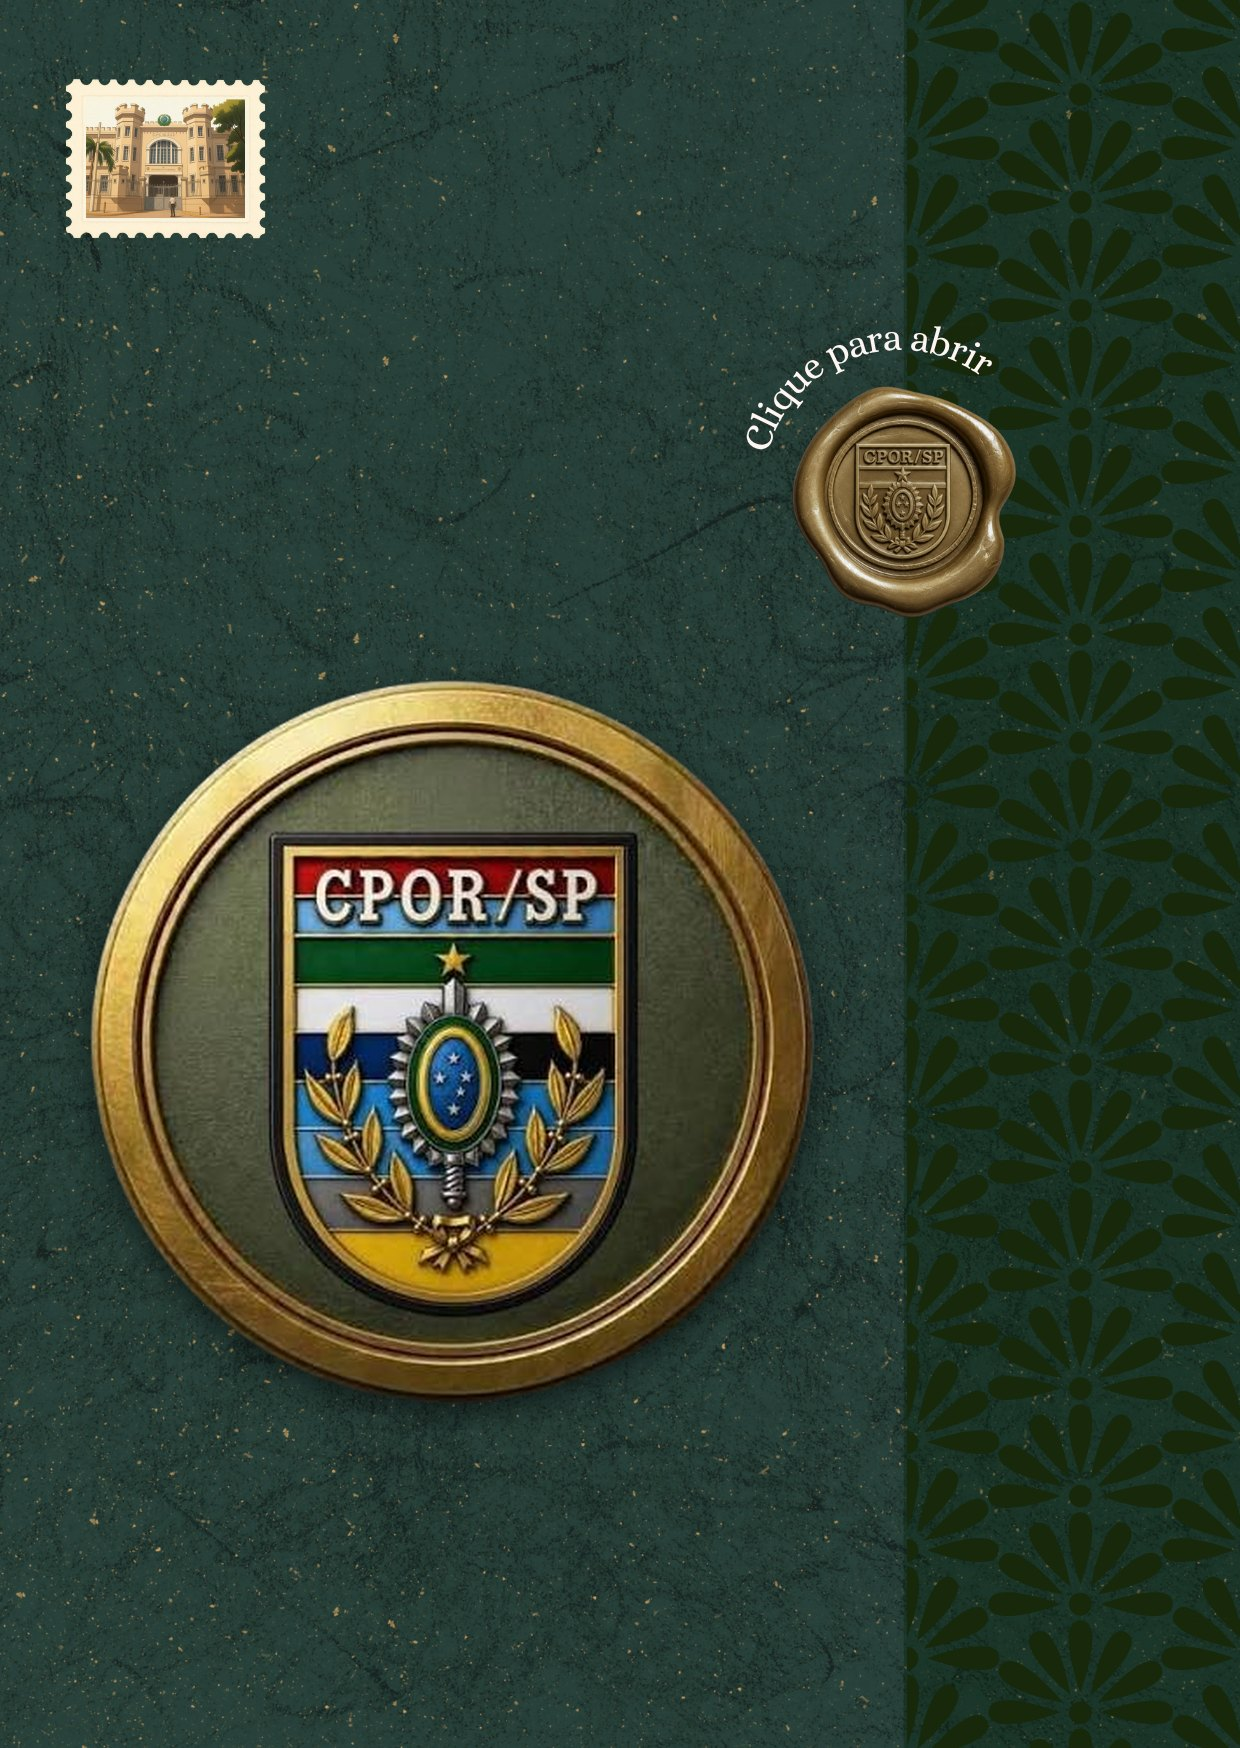
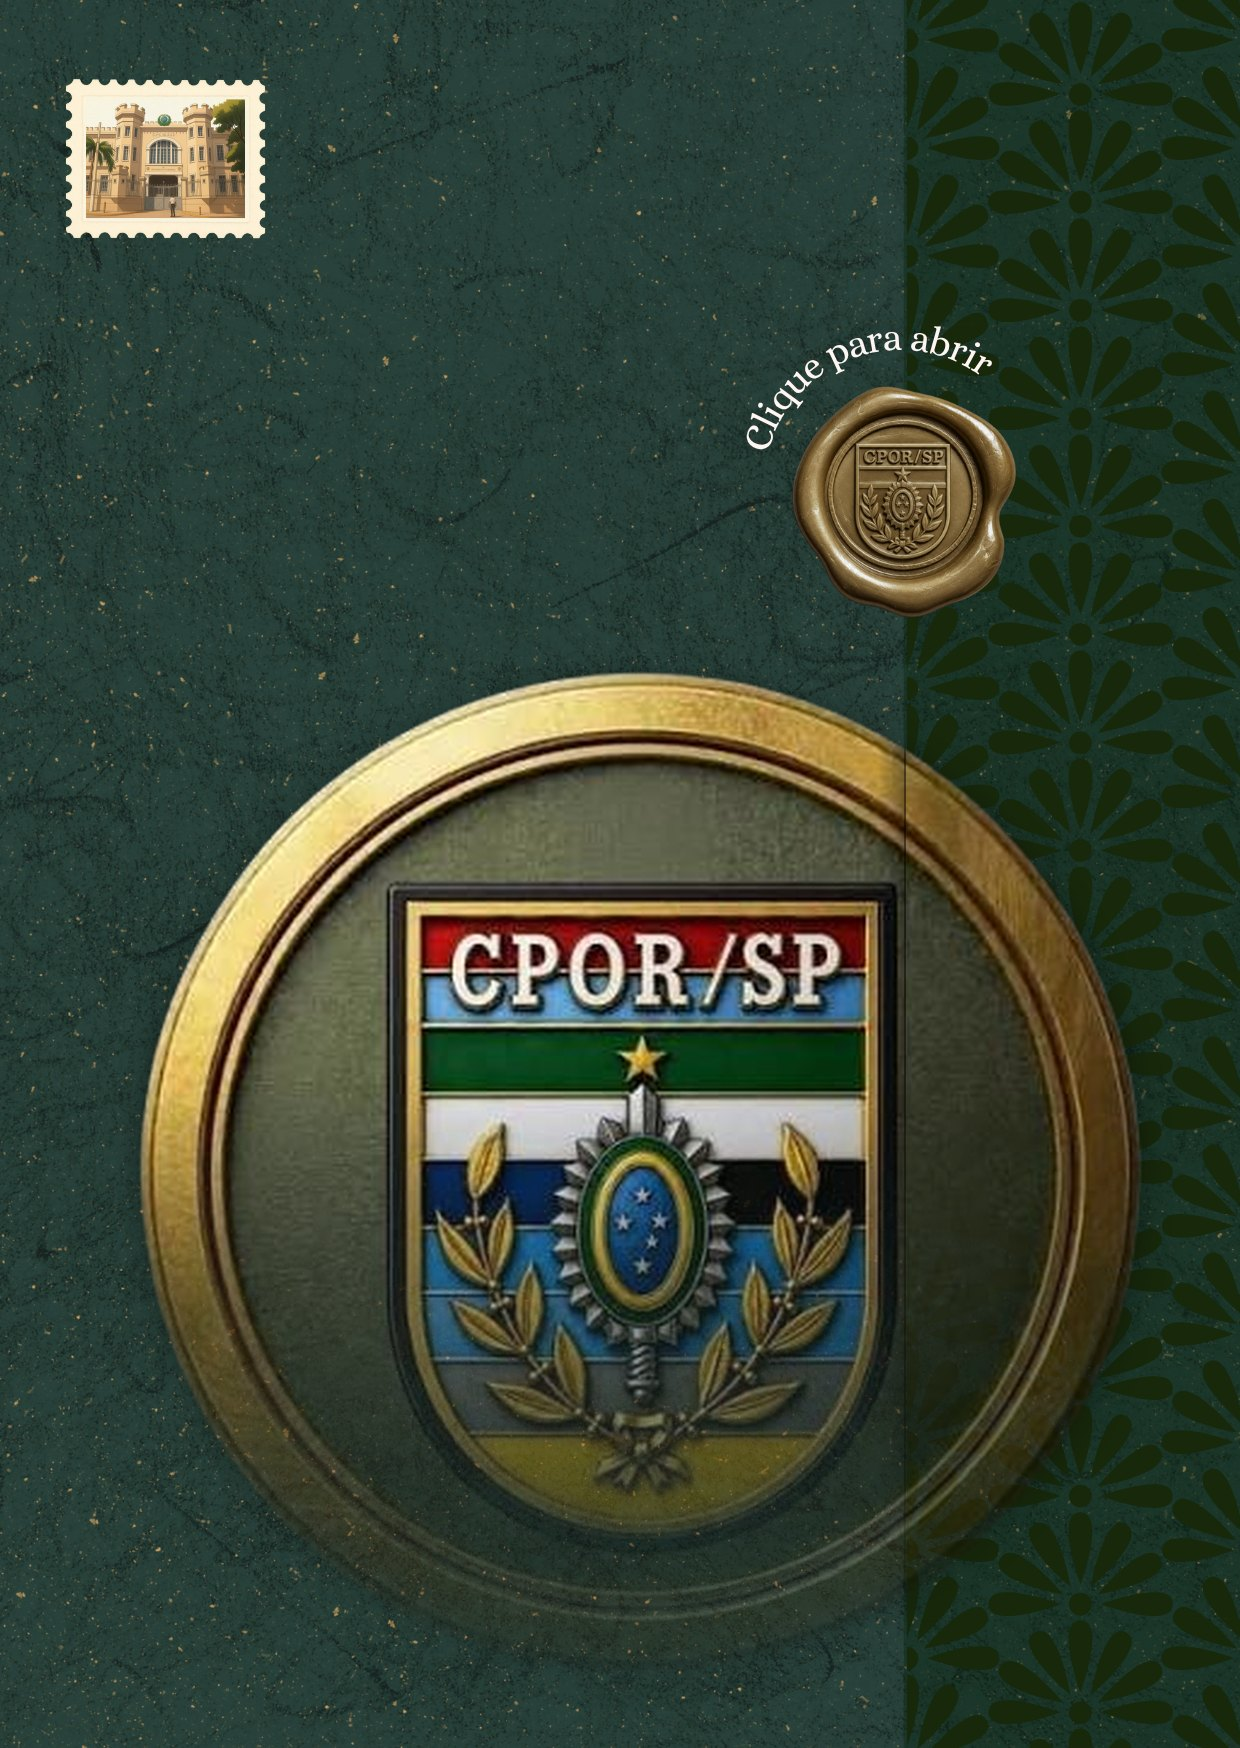
Capas 2 e 3: brasão maior atravessando a linha da aba com degradê; foto volta ao degradê com a linha
Claude-Session: https://claude.ai/code/session_01V1TRpwwDnXHGDhL8kQ61XA

Changed region(s): [[0.0613, 0.3707, 0.9194, 0.8959], [0.5823, 0.8959, 0.6742, 0.9268]]

diff --git a/README.md b/README.md
@@ -23,7 +23,7 @@ As três ficam lado a lado em `opcoes.html`.
 
 Só a capa (envelope) muda; o resto é igual.
 - `index.html` — capa original
-- `capa-marca-dagua.html` — brasão do CPOR/SP nas cores originais, grande e centralizado na parte lisa
-- `capa-foto.html` — foto aérea do CPOR/SP como uma fotografia sobre o papel, ocupando toda a parte de baixo da capa, com borda reta
+- `capa-marca-dagua.html` — brasão do CPOR/SP nas cores originais, grande, atravessando a linha onde o envelope abre e esmaecendo para baixo
+- `capa-foto.html` — foto aérea do CPOR/SP como uma fotografia sobre o papel, ocupando toda a parte de baixo da capa, surgindo do verde em degradê, com a linha da aba aparente
 
 Se mudar algo no `index.html`, gere as outras duas de novo trocando `assets/convite-1.jpg` por `assets/convite-1-marca.jpg` ou `assets/convite-1-foto.jpg`.
